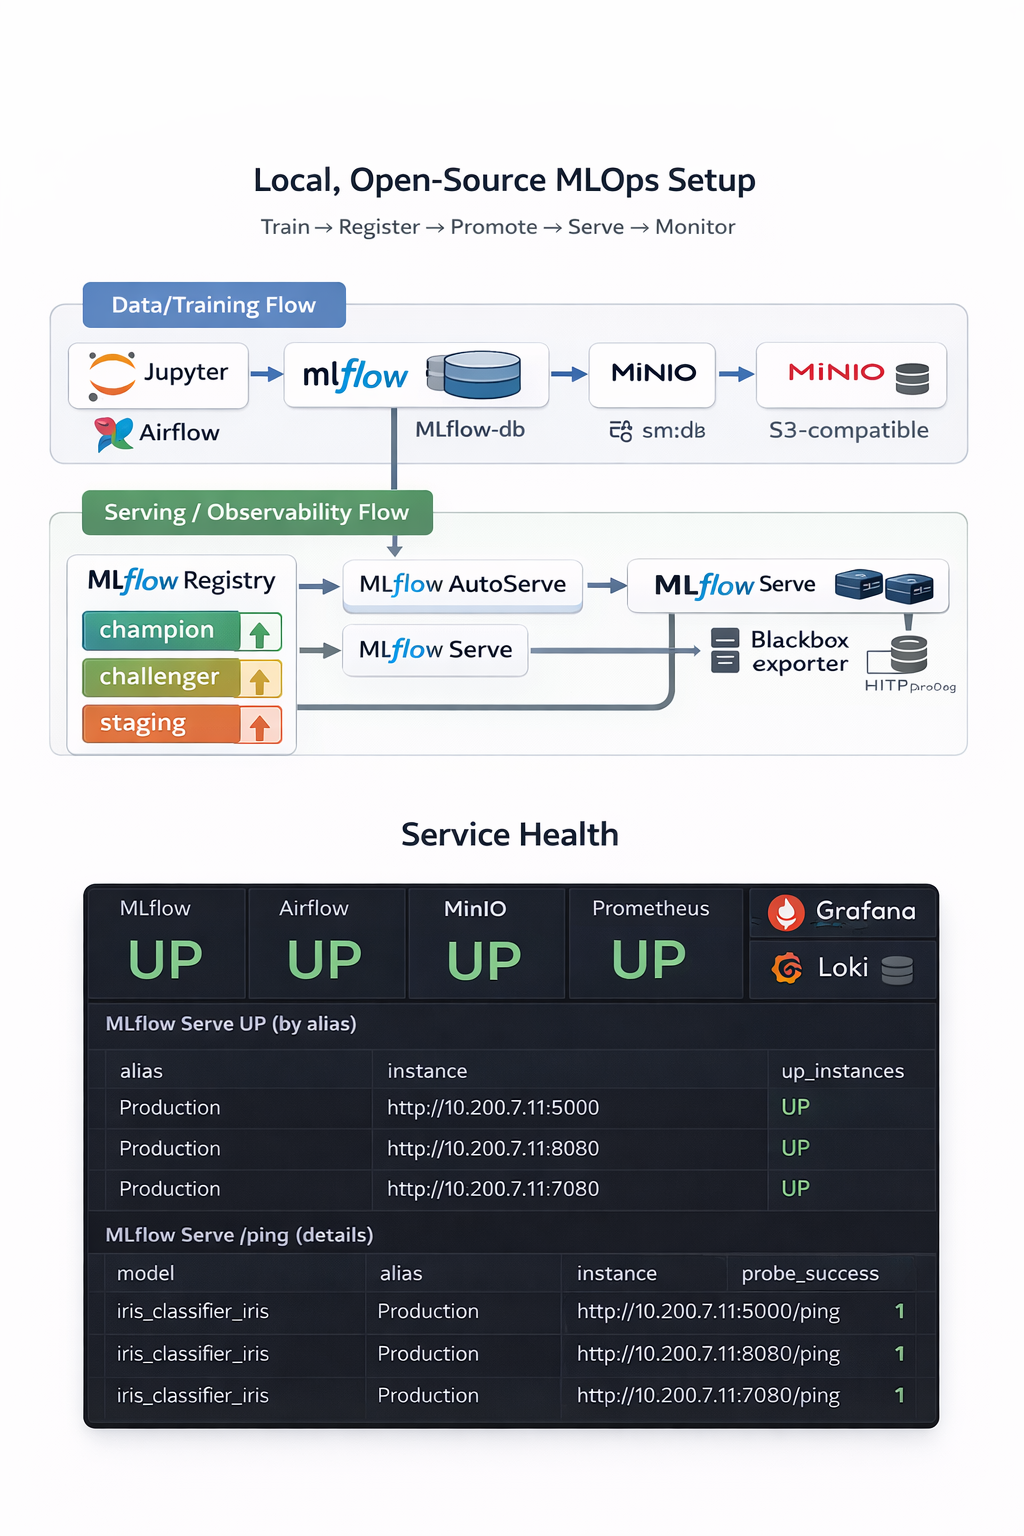
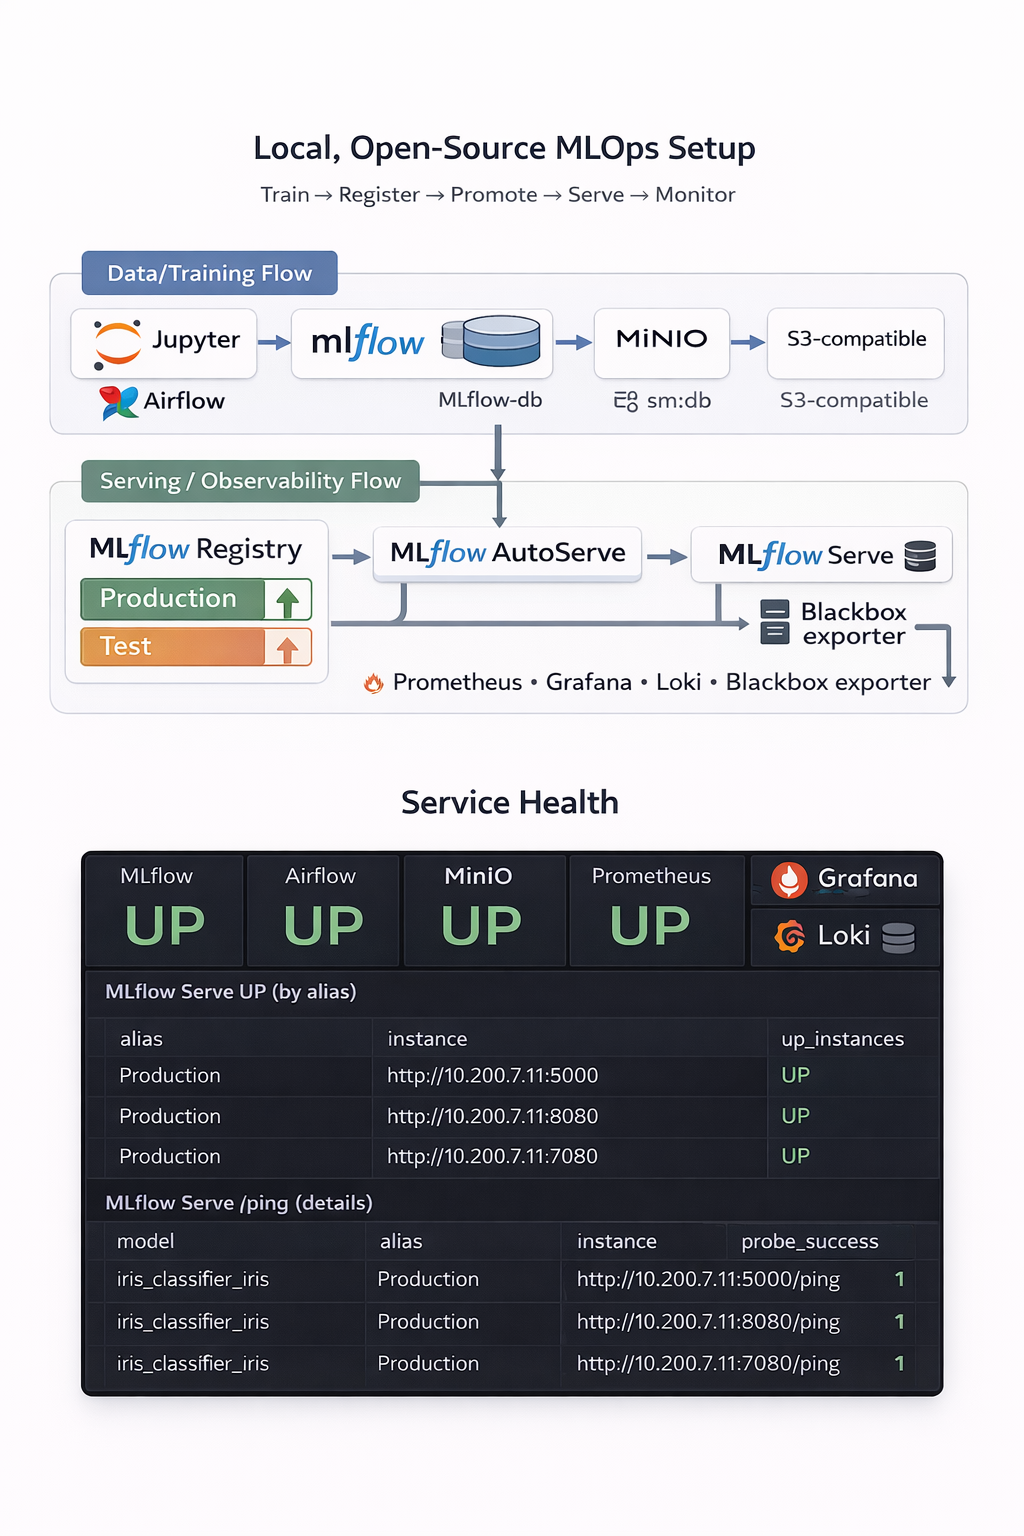
feat: Update README with visual architecture diagrams and enhance flowchart representation

Changed region(s): [[0.0625, 0.5, 0.9375, 0.9375], [0.0625, 0.0938, 0.9375, 0.5]]

diff --git a/README.md b/README.md
@@ -1,8 +1,30 @@
 # MLOps Reference Stack (MLflow + Airflow + Prometheus + Loki)
 
 Architecture (visual)
-![Architecture overview](docs/MLops1.png)
-![Service health view](docs/MLops2.png)
+```mermaid
+flowchart TB
+	subgraph Data_Training[Data / Training Flow]
+		Jupyter[Jupyter] --> MLflow[MLflow Tracking]
+		Airflow[Airflow DAGs] --> MLflow
+		MLflow --> MinIO[MinIO (S3 Artifacts)]
+		MLflow --> MLflowDB[(PostgreSQL mlflow-db)]
+		Airflow --> AppDB[(PostgreSQL app-db)]
+	end
+
+	subgraph Serving_Obs[Serving / Observability Flow]
+		Registry[MLflow Registry
+		aliases: Production / Test] --> AutoServe[MLflow AutoServe]
+		AutoServe --> ServeProd[MLflow Serve (Production)]
+		AutoServe --> ServeTest[MLflow Serve (Test)]
+		ServeProd --> Blackbox[Blackbox Exporter]
+		ServeTest --> Blackbox
+		Blackbox --> Prometheus[Prometheus]
+		Prometheus --> Grafana[Grafana]
+		ServeProd --> Loki[Loki]
+		ServeTest --> Loki
+		Loki --> Grafana
+	end
+```
 
 This repository provides a minimal, script-first MLOps stack for data scientists (Phase 1):
 - you run experiments locally or in notebooks,
